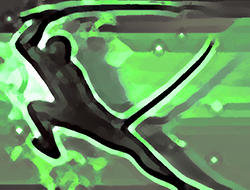
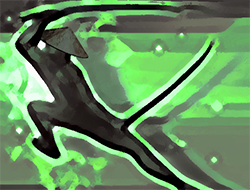
Bugfixes and art changes

Changed region(s): [[0.168, 0.1316, 0.364, 0.3158]]

diff --git a/src/main/java/code/actions/BlitzAction.java b/src/main/java/code/actions/BlitzAction.java
@@ -1,70 +1,46 @@
+//
+// Source code recreated from a .class file by IntelliJ IDEA
+// (powered by FernFlower decompiler)
+//
+
 package code.actions;
 
+import code.cards.Blitz;
 import code.powers.BleedingPower;
 import com.megacrit.cardcrawl.actions.AbstractGameAction;
-import com.megacrit.cardcrawl.actions.utility.WaitAction;
+import com.megacrit.cardcrawl.actions.AbstractGameAction.AttackEffect;
+import com.megacrit.cardcrawl.actions.animations.VFXAction;
+import com.megacrit.cardcrawl.actions.common.ApplyPowerAction;
+import com.megacrit.cardcrawl.actions.common.DamageAction;
+import com.megacrit.cardcrawl.actions.utility.SFXAction;
+import com.megacrit.cardcrawl.cards.AbstractCard;
 import com.megacrit.cardcrawl.cards.DamageInfo;
-import com.megacrit.cardcrawl.core.AbstractCreature;
 import com.megacrit.cardcrawl.dungeons.AbstractDungeon;
 import com.megacrit.cardcrawl.monsters.AbstractMonster;
-import com.megacrit.cardcrawl.vfx.combat.FlashAtkImgEffect;
-
-import static code.util.BlademasterUtil.playerApplyPower;
+import com.megacrit.cardcrawl.vfx.combat.LightningEffect;
 
 public class BlitzAction extends AbstractGameAction {
-    private static final float DURATION = 0.01F;
-    private static final float POST_ATTACK_WAIT_DUR = 0.2F;
-    private final DamageInfo info;
-    private int numTimes;
-    private final int bleedingStacks;
+    private final Blitz card;
+    private final AbstractGameAction.AttackEffect effect;
 
-    public BlitzAction(AbstractCreature target, DamageInfo info, int numTimes, int bleedingStacks) {
-        this.info = info;
-        this.target = target;
-        this.actionType = ActionType.DAMAGE;
-        this.attackEffect = AttackEffect.SLASH_HORIZONTAL;
-        this.duration = 0.01F;
-        this.numTimes = numTimes;
-        this.bleedingStacks = bleedingStacks;
+    public BlitzAction(Blitz card, AbstractGameAction.AttackEffect effect) {
+        this.card = card;
+        this.effect = effect;
     }
 
-    public BlitzAction(DamageInfo info, int numTimes, int bleedingStacks) {
-        this.info = info;
-        this.actionType = ActionType.DAMAGE;
-        this.attackEffect = AttackEffect.SLASH_HORIZONTAL;
-        this.duration = 0.01F;
-        this.numTimes = numTimes;
-        this.bleedingStacks = bleedingStacks;
-        if (!AbstractDungeon.getMonsters().areMonstersBasicallyDead()) {
-            this.addToTop(new BlitzAction(AbstractDungeon.getMonsters().getRandomMonster(null, true, AbstractDungeon.cardRandomRng), info, numTimes, bleedingStacks));
-        }
-
+    public BlitzAction(Blitz card) {
+        this(card, AttackEffect.NONE);
     }
 
     @Override
     public void update() {
-        if (this.target == null) {
-            this.isDone = true;
-        } else if (AbstractDungeon.getCurrRoom().monsters.areMonstersBasicallyDead()) {
-            AbstractDungeon.actionManager.clearPostCombatActions();
-            this.isDone = true;
-        } else {
-            if (this.target.currentHealth > 0) {
-                AbstractDungeon.effectList.add(new FlashAtkImgEffect(this.target.hb.cX, this.target.hb.cY, this.attackEffect));
-                this.info.applyPowers(this.info.owner, this.target);
-                this.target.damage(this.info);
-                playerApplyPower(target, new BleedingPower(target, bleedingStacks));
-                if (this.numTimes > 1 && !AbstractDungeon.getMonsters().areMonstersBasicallyDead()) {
-                    --this.numTimes;
-                    this.addToTop(new BlitzAction(AbstractDungeon.getMonsters().getRandomMonster(null, true, AbstractDungeon.cardRandomRng), this.info, this.numTimes, this.bleedingStacks));
-                }
-
-                this.addToTop(new WaitAction(0.2F));
-            } else {
-                this.addToTop(new BlitzAction(AbstractDungeon.getMonsters().getRandomMonster(null, true, AbstractDungeon.cardRandomRng), this.info, this.numTimes, this.bleedingStacks));
-            }
-
-            this.isDone = true;
+        target = AbstractDungeon.getMonsters().getRandomMonster((AbstractMonster)null, true, AbstractDungeon.cardRandomRng);
+        if (target != null) {
+            card.calculateCardDamage((AbstractMonster)target);
+            addToTop(new ApplyPowerAction(target, AbstractDungeon.player, new BleedingPower(target, card.magicNumber)));
+            addToTop(new DamageAction(target, new DamageInfo(AbstractDungeon.player, card.damage, card.damageTypeForTurn), effect));
         }
+
+        isDone = true;
     }
 }

diff --git a/src/main/java/code/actions/BleedingLoseHpAction.java b/src/main/java/code/actions/BleedingLoseHpAction.java
@@ -8,7 +8,9 @@ import com.megacrit.cardcrawl.actions.utility.WaitAction;
 import com.megacrit.cardcrawl.cards.DamageInfo;
 import com.megacrit.cardcrawl.core.AbstractCreature;
 import com.megacrit.cardcrawl.dungeons.AbstractDungeon;
+import com.megacrit.cardcrawl.monsters.AbstractMonster;
 import com.megacrit.cardcrawl.powers.AbstractPower;
+import com.megacrit.cardcrawl.powers.MinionPower;
 import com.megacrit.cardcrawl.relics.AbstractRelic;
 import com.megacrit.cardcrawl.rooms.AbstractRoom;
 
@@ -37,6 +39,10 @@ public class BleedingLoseHpAction extends AbstractGameAction {
                 this.target.tint.color = Color.SCARLET.cpy();
                 this.target.tint.changeColor(Color.WHITE.cpy());
                 this.target.damage(new DamageInfo(this.source, this.amount, DamageInfo.DamageType.HP_LOSS));
+                if ((((AbstractMonster)target).isDying || target.currentHealth <= 0) && !target.halfDead && !target.hasPower(MinionPower.POWER_ID)) {
+                    AbstractRelic castIronTeapot = AbstractDungeon.player.getRelic(CastIronTeapot.ID);
+                    if (castIronTeapot != null) castIronTeapot.onTrigger();
+                }
             }
             AbstractPower p = this.target.getPower(makeID("Bleeding"));
             if (p != null) {
@@ -46,10 +52,6 @@ public class BleedingLoseHpAction extends AbstractGameAction {
                 AbstractDungeon.actionManager.clearPostCombatActions();
             }
             AbstractDungeon.actionManager.addToTop(new WaitAction(0.1F));
-            if (target.currentHealth <= amount) {
-                AbstractRelic castIronTeapot = AbstractDungeon.player.getRelic(CastIronTeapot.ID);
-                if (castIronTeapot != null) castIronTeapot.onTrigger();
-            }
         }
     }
 }

diff --git a/src/main/java/code/cards/BladeWard.java b/src/main/java/code/cards/BladeWard.java
@@ -7,9 +7,9 @@ import com.megacrit.cardcrawl.monsters.AbstractMonster;
 import static code.Blademaster.makeID;
 import static code.util.BlademasterUtil.getAliveMonsters;
 
-public class BladeRuse extends AbstractBlademasterCard {
+public class BladeWard extends AbstractBlademasterCard {
 
-    public final static String ID = makeID("BladeRuse");
+    public final static String ID = makeID("BladeWard");
     private static final CardRarity RARITY = CardRarity.UNCOMMON;
     private static final CardTarget TARGET = CardTarget.SELF;
     private static final CardType TYPE = CardType.SKILL;
@@ -17,7 +17,7 @@ public class BladeRuse extends AbstractBlademasterCard {
     private static final int BLOCK = 6;
     private static final int UPGRADE_BLOCK = 3;
 
-    public BladeRuse() {
+    public BladeWard() {
         super(ID, COST, TYPE, RARITY, TARGET);
         baseBlock = BLOCK;
         tags.add(BlademasterTags.BLOODIED);

diff --git a/src/main/java/code/cards/RagingBlow.java b/src/main/java/code/cards/RagingBlow.java
@@ -73,7 +73,7 @@ public class RagingBlow extends AbstractStanceCard {
         super.calculateCardDamage(m);
         if (isBloodied(m)) {
             if (AbstractDungeon.player.hasPower(MassacrePower.POWER_ID))
-                secondDamage *= 3;
+                secondDamage *= 2 + getPowerAmount(AbstractDungeon.player, MassacrePower.POWER_ID);
             else
                 secondDamage *= 2;
             this.isSecondDamageModified = true;
@@ -82,7 +82,10 @@ public class RagingBlow extends AbstractStanceCard {
 
     @Override
     public void applyPowers() {
-        if (getStance() == Blademaster.BlademasterStance.BASIC) return;
+        if (getStance() == Blademaster.BlademasterStance.BASIC) {
+            super.applyPowers();
+            return;
+        }
         if (getStance() == Blademaster.BlademasterStance.WIND) {
             baseDamage = getPlayerWindCharges();
             super.applyPowers();

diff --git a/src/main/java/code/cards/AbstractStanceCard.java b/src/main/java/code/cards/AbstractStanceCard.java
@@ -46,8 +46,8 @@ public abstract class AbstractStanceCard extends AbstractBlademasterCard {
     private AbstractStanceCard PREVIEW_WIND = null;
     private AbstractStanceCard PREVIEW_LIGHTNING = null;
     private boolean renderPreviewCards = false;
-
     private boolean stancePreviewDisplayUpgrades = false;
+    public boolean everstorm = false;
 
     public AbstractStanceCard(final String cardID, final int cost, final CardType type, final CardRarity rarity, final CardTarget target) {
         this(cardID, cost, type, rarity, target, 0, 0);
@@ -138,7 +138,8 @@ public abstract class AbstractStanceCard extends AbstractBlademasterCard {
     @Override
     public void applyPowers() {
         super.applyPowers();
-        setStance(getPlayerStance());
+        if (!everstorm)
+            setStance(getPlayerStance());
     }
 
     @Override

diff --git a/src/main/java/code/actions/WhirlwindAction.java b/src/main/java/code/actions/WhirlwindAction.java
@@ -55,8 +55,10 @@ public class WhirlwindAction extends AbstractGameAction {
                 ++effect;
                 AbstractBlademasterCard.triggerBloodiedPowers(AbstractDungeon.player, m);
                 if (p.hasPower(MassacrePower.POWER_ID)) {
-                    ++effect;
-                    AbstractBlademasterCard.triggerBloodiedPowers(AbstractDungeon.player, m);
+                    for (int i = 0; i < getPowerAmount(p, MassacrePower.POWER_ID); i++) {
+                        ++effect;
+                        AbstractBlademasterCard.triggerBloodiedPowers(AbstractDungeon.player, m);
+                    }
                 }
             }
         }

diff --git a/src/main/java/code/powers/EverstormPower.java b/src/main/java/code/powers/EverstormPower.java
@@ -36,7 +36,9 @@ public class EverstormPower extends AbstractBlademasterPower {
             AbstractCard tmp = card.makeSameInstanceOf();
             Blademaster.BlademasterStance otherStance = getPlayerStance() == Blademaster.BlademasterStance.WIND ?
                     Blademaster.BlademasterStance.LIGHTNING : Blademaster.BlademasterStance.WIND;
+            ((AbstractStanceCard) tmp).everstorm = true;
             ((AbstractStanceCard) tmp).setStance(otherStance);
+            tmp.applyPowers();
             AbstractDungeon.player.limbo.addToBottom(tmp);
             tmp.current_x = card.current_x;
             tmp.current_y = card.current_y;

diff --git a/src/main/java/code/powers/MassacrePower.java b/src/main/java/code/powers/MassacrePower.java
@@ -11,12 +11,16 @@ public class MassacrePower extends AbstractBlademasterPower {
     public static final boolean TURN_BASED = false;
 
     public MassacrePower(AbstractCreature owner) {
-        super(POWER_ID, TYPE, TURN_BASED, owner, -1);
+        super(POWER_ID, TYPE, TURN_BASED, owner, 1);
     }
 
     @Override
     public void updateDescription() {
-        description = powerStrings.DESCRIPTIONS[0];
+        if (amount > 1) {
+            description = powerStrings.DESCRIPTIONS[0] + powerStrings.DESCRIPTIONS[2];
+        } else {
+            description = powerStrings.DESCRIPTIONS[0] + powerStrings.DESCRIPTIONS[1];
+        }
     }
 
 }

diff --git a/src/main/java/code/cards/AbstractBlademasterCard.java b/src/main/java/code/cards/AbstractBlademasterCard.java
@@ -373,8 +373,10 @@ public abstract class AbstractBlademasterCard extends CustomCard {
             useBloodied(p, m);
             triggerBloodiedPowers(p, m);
             if (p.hasPower(MassacrePower.POWER_ID)) {
-                useBloodied(p, m);
-                triggerBloodiedPowers(p, m);
+                for (int i = 0; i < BlademasterUtil.getPowerAmount(p, MassacrePower.POWER_ID); i++) {
+                    useBloodied(p, m);
+                    triggerBloodiedPowers(p, m);
+                }
             }
         }
     }

diff --git a/src/main/java/code/cards/Thrust.java b/src/main/java/code/cards/Thrust.java
@@ -48,7 +48,10 @@ public class Thrust extends AbstractStanceCard {
 
     @Override
     public void applyPowers() {
-        if (getStance() == Blademaster.BlademasterStance.BASIC) return;
+        if (getStance() == Blademaster.BlademasterStance.BASIC) {
+            super.applyPowers();
+            return;
+        }
         if (getStance() == Blademaster.BlademasterStance.WIND) {
             baseSecondDamage = getPlayerWindCharges();
             super.applyPowers();

diff --git a/src/main/java/code/cards/Blitz.java b/src/main/java/code/cards/Blitz.java
@@ -28,7 +28,9 @@ public class Blitz extends AbstractBlademasterCard {
 
     @Override
     public void use(AbstractPlayer p, AbstractMonster m) {
-        addToBot(new BlitzAction(new DamageInfo(p, damage, damageTypeForTurn), secondMagic, magicNumber));
+        for (int i = 0; i < secondMagic; i++) {
+            addToBot(new BlitzAction(this));
+        }
     }
 
     @Override

diff --git a/src/main/java/code/cards/Stormstrike.java b/src/main/java/code/cards/Stormstrike.java
@@ -51,6 +51,7 @@ public class Stormstrike extends AbstractStanceCard {
     public void applyPowers() {
         if (getStance() == Blademaster.BlademasterStance.BASIC) {
             super.applyPowers();
+            return;
         }
         if (getStance() == Blademaster.BlademasterStance.LIGHTNING) {
             baseSecondDamage = magicNumber * getPlayerLightningCharges();
